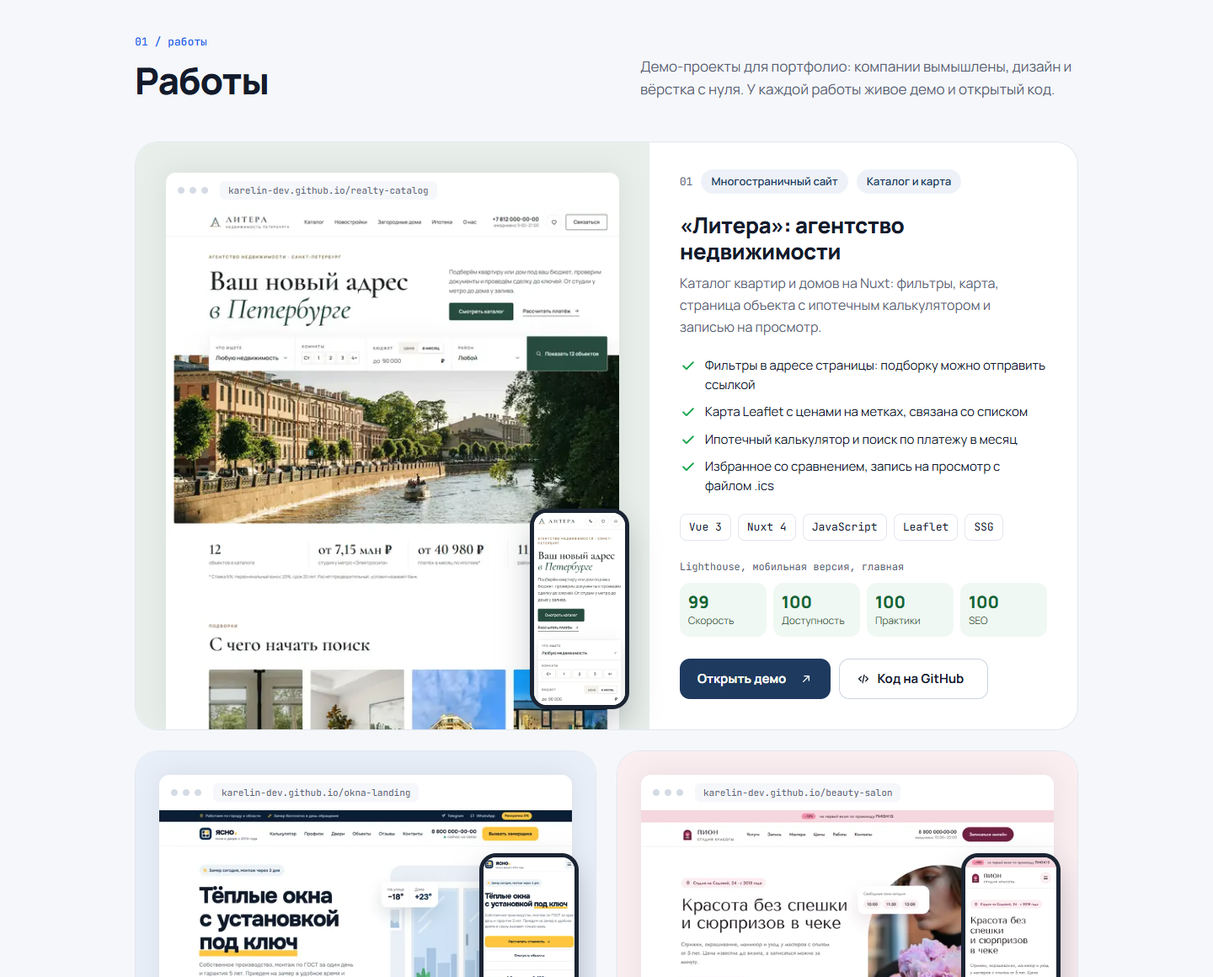
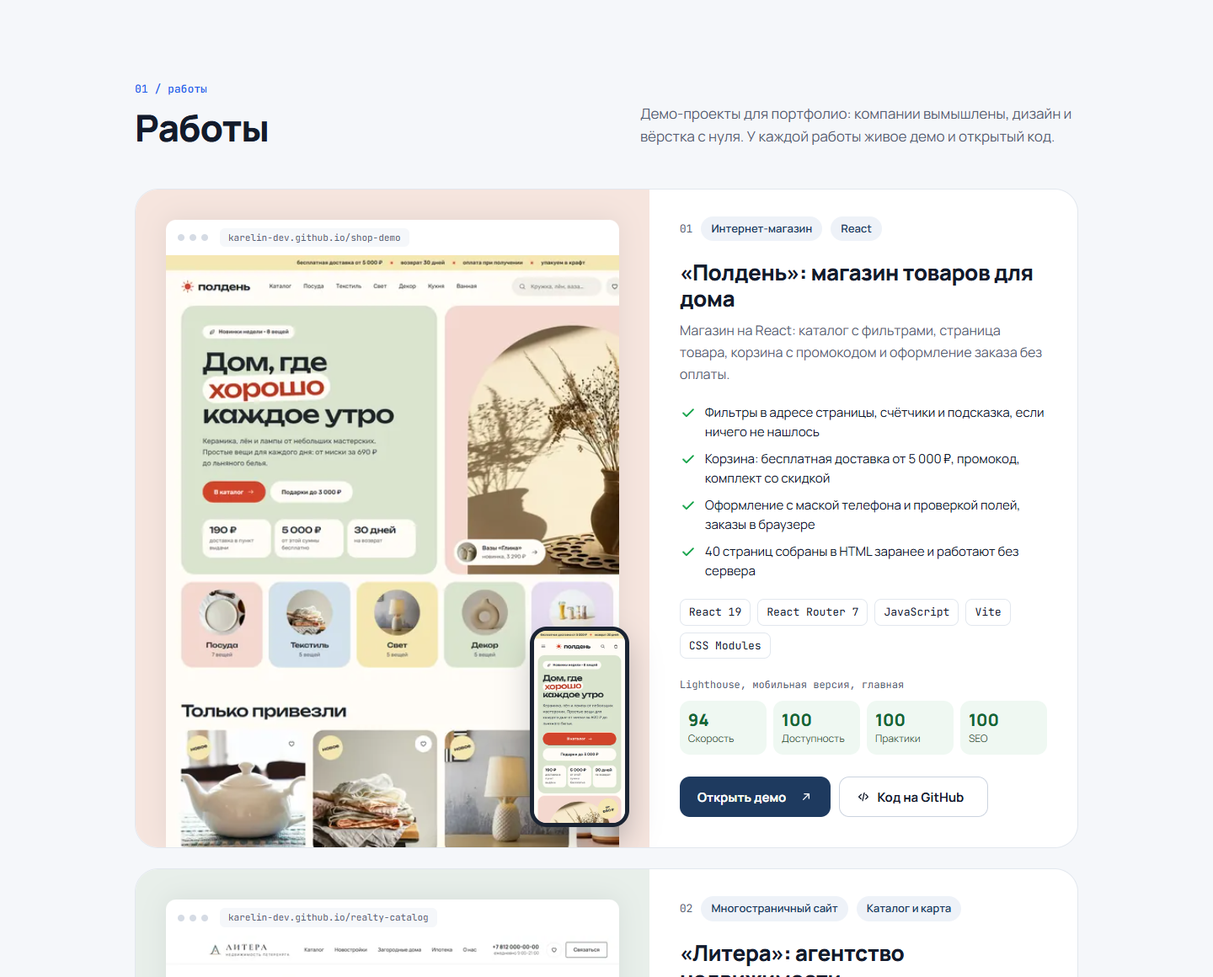
Витрина: магазин «Полдень» первой работой
- карточка на всю ширину: скриншоты главной магазина, что сделано, стек и Lighthouse
- «Литера», «Ясно» и «Пион» стали 02, 03 и 04, блок «в работе» убран
- диапазон Lighthouse и описание для превью ссылки с учётом магазина, свежие скриншоты в README

diff --git a/docs/css/main.css b/docs/css/main.css
@@ -1,1 +1,1 @@
-@font-face{font-family:"Manrope Fallback";font-style:normal;font-weight:400 500;src:local("Arial");size-adjust:102.4%}@font-face{font-family:"Manrope Fallback";font-style:normal;font-weight:600 700;src:local("Arial Bold");size-adjust:98.3%}@font-face{font-family:"Manrope Fallback";font-style:normal;font-weight:800;src:local("Arial Bold");size-adjust:100.7%}@font-face{font-family:"Manrope";font-style:normal;font-weight:200 800;font-display:swap;src:url("../fonts/manrope-cyrillic-wght-normal.woff2") format("woff2");unicode-range:U+0301,U+0400-045F,U+0490-0491,U+04B0-04B1,U+2116}@font-face{font-family:"Manrope";font-style:normal;font-weight:200 800;font-display:swap;src:url("../fonts/manrope-latin-wght-normal.woff2") format("woff2");unicode-range:U+0000-00FF,U+0131,U+0152-0153,U+02BB-02BC,U+02C6,U+02DA,U+02DC,U+0304,U+0308,U+0329,U+2000-206F,U+20AC,U+2122,U+2191,U+2193,U+2212,U+2215,U+FEFF,U+FFFD}@font-face{font-family:"JetBrains Mono";font-style:normal;font-weight:200 800;font-display:swap;src:url("../fonts/jetbrains-mono-cyrillic-wght-normal.woff2") format("woff2");unicode-range:U+0301,U+0400-045F,U+0490-0491,U+04B0-04B1,U+2116}@font-face{font-family:"JetBrains Mono";font-style:normal;font-weight:200 800;font-display:swap;src:url("../fonts/jetbrains-mono-latin-wght-normal.woff2") format("woff2");unicode-range:U+0000-00FF,U+0131,U+0152-0153,U+02BB-02BC,U+02C6,U+02DA,U+02DC,U+0304,U+0308,U+0329,U+2000-206F,U+20AC,U+2122,U+2191,U+2193,U+2212,U+2215,U+FEFF,U+FFFD}*,*::before,*::after{box-sizing:border-box}html{-webkit-text-size-adjust:100%;scroll-behavior:smooth;scroll-padding-top:88px}body{margin:0;font-family:"Manrope","Manrope Fallback",system-ui,-apple-system,"Segoe UI",sans-serif;font-size:16px;line-height:1.5;color:#131b2b;background:#fff;-webkit-font-smoothing:antialiased}img{display:block;max-width:100%;height:auto}h1,h2,h3,p,ul,ol,dl,dd,figure,pre{margin:0}ul,ol{padding:0;list-style:none}a{color:#1e3a5f}a:hover{color:#2563eb}:focus-visible{outline:3px solid #2563eb;outline-offset:3px}.wrap{max-width:1200px;margin-inline:auto;padding-inline:clamp(16px,4vw,40px)}.visually-hidden{position:absolute;width:1px;height:1px;margin:-1px;padding:0;overflow:hidden;clip:rect(0 0 0 0);white-space:nowrap;border:0}.nowrap{white-space:nowrap}.skip-link{position:absolute;top:-100px;left:16px;z-index:100;padding:12px 18px;border-radius:12px;background:#1e3a5f;color:#fff;font-weight:700;text-decoration:none}.skip-link:focus{top:12px;color:#fff}.icon{flex-shrink:0;width:18px;height:18px;fill:none;stroke:currentColor;stroke-width:2;stroke-linecap:round;stroke-linejoin:round}.sprite{position:absolute;width:0;height:0;overflow:hidden}@media(prefers-reduced-motion: reduce){html{scroll-behavior:auto}*,*::before,*::after{transition-duration:.01ms !important;animation-duration:.01ms !important}}.btn{display:inline-flex;align-items:center;justify-content:center;gap:10px;height:54px;padding:0 26px;border:1px solid rgba(0,0,0,0);border-radius:14px;font:inherit;font-size:16px;font-weight:700;line-height:1;text-decoration:none;white-space:nowrap;cursor:pointer;transition:background-color .2s,border-color .2s,color .2s}.btn--primary{background:#1e3a5f;color:#fff}.btn--primary:hover{background:#16304f;color:#fff}.btn--outline{border-color:#cbd3df;background:rgba(0,0,0,0);color:#131b2b}.btn--outline:hover{border-color:#1e3a5f;color:#1e3a5f}.btn--md{gap:8px;height:48px;padding:0 20px;border-radius:12px;font-size:15px}.btn--sm{gap:8px;height:44px;padding:0 18px;border-radius:12px;font-size:15px}.btn--md .icon{width:16px;height:16px}.section{padding-block:96px}.section--ground{background:#f5f7fa}@media(max-width: 599.98px){.section{padding-block:64px}}.section__label{font-family:"JetBrains Mono",ui-monospace,"Cascadia Mono",Consolas,monospace;font-size:13px;font-weight:500;color:#2563eb}.section__title{margin-top:12px;font-size:clamp(32px,3.4vw,44px);font-weight:800;line-height:1.1;letter-spacing:-0.025em}.section__head{display:flex;flex-wrap:wrap;align-items:flex-end;justify-content:space-between;gap:16px 48px}.section__text{max-width:520px;font-size:17px;line-height:1.6;color:#566173}.tag{padding:5px 12px;border-radius:999px;background:#eef2f8;font-size:13px;font-weight:600;color:#1e3a5f}.badge{display:inline-block;padding:4px 10px;border-radius:999px;background:#fff3e2;font-family:"JetBrains Mono",ui-monospace,"Cascadia Mono",Consolas,monospace;font-size:12px;font-weight:500;color:#8a4b00}.dots{display:flex;gap:8px}.dots span{width:10px;height:10px;border-radius:50%;background:#d5dbe4}.dots--sm{gap:6px}.dots--sm span{width:8px;height:8px}.checklist{display:grid;gap:10px;font-size:15px;line-height:1.5}.checklist li{display:flex;gap:10px}.checklist .icon{width:20px;height:20px;margin-top:1px;color:#16a34a;stroke-width:2.4}.code-tags{display:flex;flex-wrap:wrap;gap:8px}.code-tags li{padding:5px 10px;border:1px solid #e2e7ee;border-radius:8px;font-family:"JetBrains Mono",ui-monospace,"Cascadia Mono",Consolas,monospace;font-size:13px}.chips{display:flex;flex-wrap:wrap;gap:8px}.chips li{padding:5px 11px;border-radius:8px;background:#f5f7fa;font-size:14px;font-weight:500}.header{position:sticky;top:0;z-index:50;background:#fff;border-bottom:1px solid #e2e7ee;transition:box-shadow .2s}.header.is-scrolled{box-shadow:0 8px 24px rgba(19,27,43,.06)}.header__inner{display:flex;align-items:center;gap:24px;height:76px}.logo{display:flex;flex-shrink:0;align-items:center;gap:12px;color:#131b2b;text-decoration:none}.logo:hover{color:#131b2b}.logo__mark{position:relative;display:inline-flex;align-items:center;justify-content:center;width:42px;height:42px;border-radius:11px;background:#1e3a5f;color:#fff;font-size:15px;font-weight:800;letter-spacing:.02em}.logo__mark::after{content:"";position:absolute;right:7px;bottom:9px;width:6px;height:2px;border-radius:1px;background:#6ea0ff}.logo__text{display:flex;flex-direction:column;line-height:1.2}.logo__name{font-size:17px;font-weight:700}.logo__role{font-family:"JetBrains Mono",ui-monospace,"Cascadia Mono",Consolas,monospace;font-size:12px;color:#566173}.nav{margin-left:auto}.nav__list{display:flex;gap:28px}.nav__link{position:relative;display:inline-flex;align-items:center;min-height:44px;font-size:15px;font-weight:600;color:#131b2b;text-decoration:none}.nav__link:hover{color:#2563eb}.nav__link[aria-current=true]{color:#1e3a5f}.nav__link[aria-current=true]::after{content:"";position:absolute;right:0;bottom:6px;left:0;height:2px;border-radius:1px;background:#2563eb}.nav__item--mobile{display:none}.header__github{margin-left:8px}.header__burger{display:none}.header__burger .icon{width:22px;height:22px}.header__burger .icon--close,.header__burger[aria-expanded=true] .icon--menu{display:none}.header__burger[aria-expanded=true] .icon--close{display:block}@media(max-width: 859.98px){.header__github{margin-left:auto}.header__burger{display:inline-flex;align-items:center;justify-content:center;width:44px;height:44px;padding:0;border:1px solid #cbd3df;border-radius:12px;background:#fff;color:#131b2b;cursor:pointer}.nav{position:absolute;top:100%;right:0;left:0;display:none;margin:0;padding:4px clamp(16px,4vw,40px) 20px;background:#fff;border-bottom:1px solid #e2e7ee;box-shadow:0 16px 32px rgba(19,27,43,.08)}.header.is-menu-open .nav{display:block}.nav__list{flex-direction:column;gap:0}.nav__link{display:flex;min-height:54px;border-bottom:1px solid #e2e7ee;font-size:17px}.nav__link[aria-current=true]::after{display:none}.nav__item--mobile{display:block}}@media(max-width: 519.98px){.header__github{display:none}.header__burger{margin-left:auto}}.hero__inner{display:flex;flex-wrap:wrap;align-items:center;gap:56px 64px;padding-block:72px 96px}@media(max-width: 599.98px){.hero__inner{gap:48px;padding-block:40px 72px}}.hero__content{flex:1 1 560px;min-width:0}.hero__visual{flex:1 1 440px;min-width:0;max-width:600px}.status{display:inline-flex;align-items:center;gap:10px;padding:8px 16px 8px 14px;border-radius:20px;background:#edf7f0;font-size:14px;font-weight:600;line-height:1.4;color:#14532d}.status__dot{flex-shrink:0;width:8px;height:8px;border-radius:50%;background:#16a34a;box-shadow:0 0 0 4px rgba(22,163,74,.16)}.hero__title{margin-top:28px;font-size:clamp(34px,3.7vw,52px);font-weight:800;line-height:1.08;letter-spacing:-0.03em}.hero__accent{color:#2563eb}.hero__lead{max-width:560px;margin-top:24px;font-size:18px;line-height:1.65;color:#566173}@media(max-width: 599.98px){.hero__lead{font-size:17px}}.hero__actions{display:flex;flex-wrap:wrap;gap:12px;margin-top:36px}.facts{display:grid;grid-template-columns:repeat(auto-fit, minmax(150px, 1fr));gap:20px 24px;margin-top:48px;padding-top:28px;border-top:1px solid #e2e7ee}.facts__item{display:flex;flex-direction:column;gap:4px}.facts__value{font-size:28px;font-weight:800;line-height:1.2;letter-spacing:-0.02em}.facts__label{font-size:14px;color:#566173}.code-stage{position:relative;padding:clamp(10px,3vw,36px);border-radius:32px;background-color:#f5f7fa;background-image:radial-gradient(#cbd3df 1.2px, transparent 1.2px);background-size:20px 20px}.code-card{overflow:hidden;background:#fff;border:1px solid #e2e7ee;border-radius:20px;box-shadow:0 24px 60px rgba(19,27,43,.1)}.code-card__bar{display:flex;align-items:center;gap:18px;padding:14px 18px;border-bottom:1px solid #e2e7ee}.code-card__file{padding:4px 10px;border-radius:8px;background:#f5f7fa;font-family:"JetBrains Mono",ui-monospace,"Cascadia Mono",Consolas,monospace;font-size:13px;color:#566173}.code{padding:22px 24px 26px;overflow-x:auto;font-family:"JetBrains Mono",ui-monospace,"Cascadia Mono",Consolas,monospace;font-size:clamp(12px,1.05vw,14px);line-height:1.8;color:#566173;counter-reset:line}@media(max-width: 599.98px){.code{padding:18px 16px 20px}}.code__line::before{counter-increment:line;content:counter(line);display:inline-block;width:2ch;margin-right:1ch;color:#a3acba}@media(max-width: 599.98px){.code__line::before{display:none}}.code__kw{color:#7a4fd6}.code__var{font-weight:500;color:#131b2b}.code__prop{color:#1e3a5f}.code__str{color:#0e7c66}.code__num{color:#c2410c}.score-badge{position:absolute;right:-12px;bottom:-30px;display:flex;flex-wrap:wrap;align-items:center;gap:12px 16px;padding:14px 18px;background:#fff;border:1px solid #e2e7ee;border-radius:18px;box-shadow:0 18px 40px rgba(19,27,43,.1)}@media(max-width: 599.98px){.score-badge{position:relative;right:auto;bottom:auto;margin-top:16px}}.score-badge__title{display:flex;flex-direction:column;line-height:1.35}.score-badge__label{font-family:"JetBrains Mono",ui-monospace,"Cascadia Mono",Consolas,monospace;font-size:12px;color:#566173}.score-badge__name{font-size:15px;font-weight:700}.score-badge__list{display:flex;gap:8px}.score-ring{display:inline-flex;align-items:center;justify-content:center;width:40px;height:40px;border:3px solid #16a34a;border-radius:50%;font-size:12px;font-weight:800;color:#166534}.works,.upcoming{display:grid;grid-template-columns:repeat(auto-fit, minmax(min(100%, 440px), 1fr));gap:24px}.works{margin-top:48px}.upcoming{margin-top:24px}.work-card{display:flex;flex-direction:column;overflow:hidden;background:#fff;border:1px solid #e2e7ee;border-radius:28px}.work-card__media{position:relative;padding:28px 28px 0}.work-card__media--okna{background:#e9eff8}.work-card__media--pion{background:#fbeef1}.work-card__media--litera{background:#e8efea}@media(max-width: 599.98px){.work-card__media{padding:20px 20px 0}}.browser{overflow:hidden;background:#fff;border-radius:12px 12px 0 0;box-shadow:0 -2px 30px rgba(19,27,43,.08)}.browser__bar{display:flex;align-items:center;gap:14px;padding:10px 14px}.browser__url{min-width:0;padding:3px 10px;overflow:hidden;border-radius:6px;background:#f5f7fa;font-family:"JetBrains Mono",ui-monospace,"Cascadia Mono",Consolas,monospace;font-size:11px;color:#566173;white-space:nowrap;text-overflow:ellipsis}.browser__shot{width:100%;aspect-ratio:16/10;object-fit:cover}.phone{position:absolute;right:20px;bottom:18px;width:clamp(84px,22%,118px);overflow:hidden;background:#fff;border:5px solid #1b2433;border-radius:20px;box-shadow:0 16px 36px rgba(19,27,43,.22)}.phone img{width:100%;aspect-ratio:300/633}@media(max-width: 599.98px){.phone{right:12px;bottom:12px;border-width:4px;border-radius:16px}}@media(min-width: 984px){.work-card--wide{display:grid;grid-column:1/-1;grid-template-columns:minmax(0, 1.2fr) minmax(0, 1fr)}.work-card--wide .work-card__media{display:flex;flex-direction:column;padding:36px 36px 0}.work-card--wide .browser{display:flex;flex:1;flex-direction:column}.work-card--wide .browser__shot{flex:1 1 0;min-height:0;aspect-ratio:auto;object-position:left top}.work-card--wide .phone{right:24px;bottom:24px}}.browser__shot{object-position:top}.work-card__body{display:flex;flex:1;flex-direction:column;gap:22px;padding:32px clamp(20px,3vw,36px) 36px}@media(max-width: 599.98px){.work-card__body{padding-block:26px 28px}}.work-card__tags{display:flex;flex-wrap:wrap;align-items:center;gap:10px}.work-card__num{font-family:"JetBrains Mono",ui-monospace,"Cascadia Mono",Consolas,monospace;font-size:13px;color:#566173}.work-card__title{font-size:26px;font-weight:800;line-height:1.2;letter-spacing:-0.02em}.work-card__text{margin-top:10px;font-size:16px;line-height:1.6;color:#566173}.scores__title{font-family:"JetBrains Mono",ui-monospace,"Cascadia Mono",Consolas,monospace;font-size:12px;color:#566173}.scores__list{display:grid;grid-template-columns:repeat(4, minmax(0, 1fr));gap:8px;margin-top:10px}@media(max-width: 479.98px){.scores__list{grid-template-columns:repeat(2, minmax(0, 1fr))}}.score{padding:10px;border-radius:12px;background:#eff8f2}.score__value{display:block;font-size:20px;font-weight:800;line-height:1.3;color:#166534}.score__label{display:block;font-size:12px;color:#3b5a45}.work-card__actions{display:flex;flex-wrap:wrap;gap:10px;margin-top:auto;padding-top:4px}.upcoming__card{display:flex;flex-wrap:wrap;align-items:center;gap:16px 24px;padding:28px clamp(20px,3vw,36px);border:1.5px dashed #cbd3df;border-radius:24px}.upcoming__body{flex:1 1 240px;min-width:0}.upcoming__title{margin-top:12px;font-size:20px;font-weight:800;letter-spacing:-0.01em}.upcoming__text{margin-top:6px;font-size:15px;line-height:1.55;color:#566173}.upcoming__stack{font-family:"JetBrains Mono",ui-monospace,"Cascadia Mono",Consolas,monospace;font-size:13px;color:#566173}.skills{display:grid;grid-template-columns:repeat(auto-fit, minmax(min(100%, 250px), 1fr));gap:20px;margin-top:40px}.skill-group{padding:28px;border:1px solid #e2e7ee;border-radius:22px}@media(max-width: 599.98px){.skill-group{padding:24px 20px}}.skill-group__icon{display:inline-flex;align-items:center;justify-content:center;width:44px;height:44px;border-radius:12px;background:#eef2f8;color:#1e3a5f}.skill-group__icon .icon{width:22px;height:22px;stroke-width:1.9}.skill-group__title{margin-top:18px;font-size:19px;font-weight:800}.skill-group .chips{margin-top:16px}.skills__note{margin-top:28px;font-size:16px;line-height:1.6;color:#566173}.about{display:flex;flex-wrap:wrap;gap:48px 72px}.about__intro{flex:1 1 420px;min-width:0}.about__text{margin-top:28px}.about__text p{font-size:18px;line-height:1.7;color:#2b3445}.about__text p+p{margin-top:18px}@media(max-width: 599.98px){.about__text p{font-size:17px}}.about__meta{display:grid;gap:12px;margin-top:32px}.meta-row{display:flex;flex-wrap:wrap;gap:4px 16px;padding:14px 18px;background:#fff;border:1px solid #e2e7ee;border-radius:14px}.meta-row dt{flex:0 0 120px;font-family:"JetBrains Mono",ui-monospace,"Cascadia Mono",Consolas,monospace;font-size:13px;line-height:1.7;color:#566173}.meta-row dd{font-size:15px;font-weight:600}.about__offers{flex:1 1 460px;min-width:0}.about__subtitle{font-size:15px;font-weight:700;color:#566173}.offers{display:grid;gap:16px;margin-top:20px}.offer{display:flex;gap:20px;padding:26px;background:#fff;border:1px solid #e2e7ee;border-radius:20px}@media(max-width: 599.98px){.offer{gap:14px;padding:22px 20px}}.offer__num{flex-shrink:0;font-family:"JetBrains Mono",ui-monospace,"Cascadia Mono",Consolas,monospace;font-size:14px;font-weight:500;line-height:1.75;color:#2563eb}.offer__title{font-size:18px;font-weight:800}.offer__text{margin-top:8px;font-size:15px;line-height:1.6;color:#566173}.cta{display:flex;flex-wrap:wrap;align-items:center;justify-content:space-between;gap:32px 48px;padding:clamp(28px,5vw,56px);border-radius:32px;background:#eaf0fb}@media(max-width: 599.98px){.cta{border-radius:24px}}.cta__content{flex:1 1 480px;min-width:0}.cta__title{font-size:clamp(28px,3vw,40px);font-weight:800;line-height:1.15;letter-spacing:-0.025em;text-wrap:balance}.cta__text{max-width:560px;margin-top:16px;font-size:17px;line-height:1.6;color:#3e4859}.footer{border-top:1px solid #e2e7ee}.footer__inner{display:flex;flex-wrap:wrap;align-items:center;justify-content:space-between;gap:12px 32px;padding-block:28px 32px;font-size:14px;line-height:1.5;color:#566173}.footer__link{font-weight:600}
+@font-face{font-family:"Manrope Fallback";font-style:normal;font-weight:400 500;src:local("Arial");size-adjust:102.4%}@font-face{font-family:"Manrope Fallback";font-style:normal;font-weight:600 700;src:local("Arial Bold");size-adjust:98.3%}@font-face{font-family:"Manrope Fallback";font-style:normal;font-weight:800;src:local("Arial Bold");size-adjust:100.7%}@font-face{font-family:"Manrope";font-style:normal;font-weight:200 800;font-display:swap;src:url("../fonts/manrope-cyrillic-wght-normal.woff2") format("woff2");unicode-range:U+0301,U+0400-045F,U+0490-0491,U+04B0-04B1,U+2116}@font-face{font-family:"Manrope";font-style:normal;font-weight:200 800;font-display:swap;src:url("../fonts/manrope-latin-wght-normal.woff2") format("woff2");unicode-range:U+0000-00FF,U+0131,U+0152-0153,U+02BB-02BC,U+02C6,U+02DA,U+02DC,U+0304,U+0308,U+0329,U+2000-206F,U+20AC,U+2122,U+2191,U+2193,U+2212,U+2215,U+FEFF,U+FFFD}@font-face{font-family:"JetBrains Mono";font-style:normal;font-weight:200 800;font-display:swap;src:url("../fonts/jetbrains-mono-cyrillic-wght-normal.woff2") format("woff2");unicode-range:U+0301,U+0400-045F,U+0490-0491,U+04B0-04B1,U+2116}@font-face{font-family:"JetBrains Mono";font-style:normal;font-weight:200 800;font-display:swap;src:url("../fonts/jetbrains-mono-latin-wght-normal.woff2") format("woff2");unicode-range:U+0000-00FF,U+0131,U+0152-0153,U+02BB-02BC,U+02C6,U+02DA,U+02DC,U+0304,U+0308,U+0329,U+2000-206F,U+20AC,U+2122,U+2191,U+2193,U+2212,U+2215,U+FEFF,U+FFFD}*,*::before,*::after{box-sizing:border-box}html{-webkit-text-size-adjust:100%;scroll-behavior:smooth;scroll-padding-top:88px}body{margin:0;font-family:"Manrope","Manrope Fallback",system-ui,-apple-system,"Segoe UI",sans-serif;font-size:16px;line-height:1.5;color:#131b2b;background:#fff;-webkit-font-smoothing:antialiased}img{display:block;max-width:100%;height:auto}h1,h2,h3,p,ul,ol,dl,dd,figure,pre{margin:0}ul,ol{padding:0;list-style:none}a{color:#1e3a5f}a:hover{color:#2563eb}:focus-visible{outline:3px solid #2563eb;outline-offset:3px}.wrap{max-width:1200px;margin-inline:auto;padding-inline:clamp(16px,4vw,40px)}.visually-hidden{position:absolute;width:1px;height:1px;margin:-1px;padding:0;overflow:hidden;clip:rect(0 0 0 0);white-space:nowrap;border:0}.nowrap{white-space:nowrap}.skip-link{position:absolute;top:-100px;left:16px;z-index:100;padding:12px 18px;border-radius:12px;background:#1e3a5f;color:#fff;font-weight:700;text-decoration:none}.skip-link:focus{top:12px;color:#fff}.icon{flex-shrink:0;width:18px;height:18px;fill:none;stroke:currentColor;stroke-width:2;stroke-linecap:round;stroke-linejoin:round}.sprite{position:absolute;width:0;height:0;overflow:hidden}@media(prefers-reduced-motion: reduce){html{scroll-behavior:auto}*,*::before,*::after{transition-duration:.01ms !important;animation-duration:.01ms !important}}.btn{display:inline-flex;align-items:center;justify-content:center;gap:10px;height:54px;padding:0 26px;border:1px solid rgba(0,0,0,0);border-radius:14px;font:inherit;font-size:16px;font-weight:700;line-height:1;text-decoration:none;white-space:nowrap;cursor:pointer;transition:background-color .2s,border-color .2s,color .2s}.btn--primary{background:#1e3a5f;color:#fff}.btn--primary:hover{background:#16304f;color:#fff}.btn--outline{border-color:#cbd3df;background:rgba(0,0,0,0);color:#131b2b}.btn--outline:hover{border-color:#1e3a5f;color:#1e3a5f}.btn--md{gap:8px;height:48px;padding:0 20px;border-radius:12px;font-size:15px}.btn--sm{gap:8px;height:44px;padding:0 18px;border-radius:12px;font-size:15px}.btn--md .icon{width:16px;height:16px}.section{padding-block:96px}.section--ground{background:#f5f7fa}@media(max-width: 599.98px){.section{padding-block:64px}}.section__label{font-family:"JetBrains Mono",ui-monospace,"Cascadia Mono",Consolas,monospace;font-size:13px;font-weight:500;color:#2563eb}.section__title{margin-top:12px;font-size:clamp(32px,3.4vw,44px);font-weight:800;line-height:1.1;letter-spacing:-0.025em}.section__head{display:flex;flex-wrap:wrap;align-items:flex-end;justify-content:space-between;gap:16px 48px}.section__text{max-width:520px;font-size:17px;line-height:1.6;color:#566173}.tag{padding:5px 12px;border-radius:999px;background:#eef2f8;font-size:13px;font-weight:600;color:#1e3a5f}.badge{display:inline-block;padding:4px 10px;border-radius:999px;background:#fff3e2;font-family:"JetBrains Mono",ui-monospace,"Cascadia Mono",Consolas,monospace;font-size:12px;font-weight:500;color:#8a4b00}.dots{display:flex;gap:8px}.dots span{width:10px;height:10px;border-radius:50%;background:#d5dbe4}.dots--sm{gap:6px}.dots--sm span{width:8px;height:8px}.checklist{display:grid;gap:10px;font-size:15px;line-height:1.5}.checklist li{display:flex;gap:10px}.checklist .icon{width:20px;height:20px;margin-top:1px;color:#16a34a;stroke-width:2.4}.code-tags{display:flex;flex-wrap:wrap;gap:8px}.code-tags li{padding:5px 10px;border:1px solid #e2e7ee;border-radius:8px;font-family:"JetBrains Mono",ui-monospace,"Cascadia Mono",Consolas,monospace;font-size:13px}.chips{display:flex;flex-wrap:wrap;gap:8px}.chips li{padding:5px 11px;border-radius:8px;background:#f5f7fa;font-size:14px;font-weight:500}.header{position:sticky;top:0;z-index:50;background:#fff;border-bottom:1px solid #e2e7ee;transition:box-shadow .2s}.header.is-scrolled{box-shadow:0 8px 24px rgba(19,27,43,.06)}.header__inner{display:flex;align-items:center;gap:24px;height:76px}.logo{display:flex;flex-shrink:0;align-items:center;gap:12px;color:#131b2b;text-decoration:none}.logo:hover{color:#131b2b}.logo__mark{position:relative;display:inline-flex;align-items:center;justify-content:center;width:42px;height:42px;border-radius:11px;background:#1e3a5f;color:#fff;font-size:15px;font-weight:800;letter-spacing:.02em}.logo__mark::after{content:"";position:absolute;right:7px;bottom:9px;width:6px;height:2px;border-radius:1px;background:#6ea0ff}.logo__text{display:flex;flex-direction:column;line-height:1.2}.logo__name{font-size:17px;font-weight:700}.logo__role{font-family:"JetBrains Mono",ui-monospace,"Cascadia Mono",Consolas,monospace;font-size:12px;color:#566173}.nav{margin-left:auto}.nav__list{display:flex;gap:28px}.nav__link{position:relative;display:inline-flex;align-items:center;min-height:44px;font-size:15px;font-weight:600;color:#131b2b;text-decoration:none}.nav__link:hover{color:#2563eb}.nav__link[aria-current=true]{color:#1e3a5f}.nav__link[aria-current=true]::after{content:"";position:absolute;right:0;bottom:6px;left:0;height:2px;border-radius:1px;background:#2563eb}.nav__item--mobile{display:none}.header__github{margin-left:8px}.header__burger{display:none}.header__burger .icon{width:22px;height:22px}.header__burger .icon--close,.header__burger[aria-expanded=true] .icon--menu{display:none}.header__burger[aria-expanded=true] .icon--close{display:block}@media(max-width: 859.98px){.header__github{margin-left:auto}.header__burger{display:inline-flex;align-items:center;justify-content:center;width:44px;height:44px;padding:0;border:1px solid #cbd3df;border-radius:12px;background:#fff;color:#131b2b;cursor:pointer}.nav{position:absolute;top:100%;right:0;left:0;display:none;margin:0;padding:4px clamp(16px,4vw,40px) 20px;background:#fff;border-bottom:1px solid #e2e7ee;box-shadow:0 16px 32px rgba(19,27,43,.08)}.header.is-menu-open .nav{display:block}.nav__list{flex-direction:column;gap:0}.nav__link{display:flex;min-height:54px;border-bottom:1px solid #e2e7ee;font-size:17px}.nav__link[aria-current=true]::after{display:none}.nav__item--mobile{display:block}}@media(max-width: 519.98px){.header__github{display:none}.header__burger{margin-left:auto}}.hero__inner{display:flex;flex-wrap:wrap;align-items:center;gap:56px 64px;padding-block:72px 96px}@media(max-width: 599.98px){.hero__inner{gap:48px;padding-block:40px 72px}}.hero__content{flex:1 1 560px;min-width:0}.hero__visual{flex:1 1 440px;min-width:0;max-width:600px}.status{display:inline-flex;align-items:center;gap:10px;padding:8px 16px 8px 14px;border-radius:20px;background:#edf7f0;font-size:14px;font-weight:600;line-height:1.4;color:#14532d}.status__dot{flex-shrink:0;width:8px;height:8px;border-radius:50%;background:#16a34a;box-shadow:0 0 0 4px rgba(22,163,74,.16)}.hero__title{margin-top:28px;font-size:clamp(34px,3.7vw,52px);font-weight:800;line-height:1.08;letter-spacing:-0.03em}.hero__accent{color:#2563eb}.hero__lead{max-width:560px;margin-top:24px;font-size:18px;line-height:1.65;color:#566173}@media(max-width: 599.98px){.hero__lead{font-size:17px}}.hero__actions{display:flex;flex-wrap:wrap;gap:12px;margin-top:36px}.facts{display:grid;grid-template-columns:repeat(auto-fit, minmax(150px, 1fr));gap:20px 24px;margin-top:48px;padding-top:28px;border-top:1px solid #e2e7ee}.facts__item{display:flex;flex-direction:column;gap:4px}.facts__value{font-size:28px;font-weight:800;line-height:1.2;letter-spacing:-0.02em}.facts__label{font-size:14px;color:#566173}.code-stage{position:relative;padding:clamp(10px,3vw,36px);border-radius:32px;background-color:#f5f7fa;background-image:radial-gradient(#cbd3df 1.2px, transparent 1.2px);background-size:20px 20px}.code-card{overflow:hidden;background:#fff;border:1px solid #e2e7ee;border-radius:20px;box-shadow:0 24px 60px rgba(19,27,43,.1)}.code-card__bar{display:flex;align-items:center;gap:18px;padding:14px 18px;border-bottom:1px solid #e2e7ee}.code-card__file{padding:4px 10px;border-radius:8px;background:#f5f7fa;font-family:"JetBrains Mono",ui-monospace,"Cascadia Mono",Consolas,monospace;font-size:13px;color:#566173}.code{padding:22px 24px 26px;overflow-x:auto;font-family:"JetBrains Mono",ui-monospace,"Cascadia Mono",Consolas,monospace;font-size:clamp(12px,1.05vw,14px);line-height:1.8;color:#566173;counter-reset:line}@media(max-width: 599.98px){.code{padding:18px 16px 20px}}.code__line::before{counter-increment:line;content:counter(line);display:inline-block;width:2ch;margin-right:1ch;color:#a3acba}@media(max-width: 599.98px){.code__line::before{display:none}}.code__kw{color:#7a4fd6}.code__var{font-weight:500;color:#131b2b}.code__prop{color:#1e3a5f}.code__str{color:#0e7c66}.code__num{color:#c2410c}.score-badge{position:absolute;right:-12px;bottom:-30px;display:flex;flex-wrap:wrap;align-items:center;gap:12px 16px;padding:14px 18px;background:#fff;border:1px solid #e2e7ee;border-radius:18px;box-shadow:0 18px 40px rgba(19,27,43,.1)}@media(max-width: 599.98px){.score-badge{position:relative;right:auto;bottom:auto;margin-top:16px}}.score-badge__title{display:flex;flex-direction:column;line-height:1.35}.score-badge__label{font-family:"JetBrains Mono",ui-monospace,"Cascadia Mono",Consolas,monospace;font-size:12px;color:#566173}.score-badge__name{font-size:15px;font-weight:700}.score-badge__list{display:flex;gap:8px}.score-ring{display:inline-flex;align-items:center;justify-content:center;width:40px;height:40px;border:3px solid #16a34a;border-radius:50%;font-size:12px;font-weight:800;color:#166534}.works{display:grid;grid-template-columns:repeat(auto-fit, minmax(min(100%, 440px), 1fr));gap:24px;margin-top:48px}.work-card{display:flex;flex-direction:column;overflow:hidden;background:#fff;border:1px solid #e2e7ee;border-radius:28px}.work-card__media{position:relative;padding:28px 28px 0}.work-card__media--okna{background:#e9eff8}.work-card__media--pion{background:#fbeef1}.work-card__media--litera{background:#e8efea}.work-card__media--polden{background:#f6e5de}@media(max-width: 599.98px){.work-card__media{padding:20px 20px 0}}.browser{overflow:hidden;background:#fff;border-radius:12px 12px 0 0;box-shadow:0 -2px 30px rgba(19,27,43,.08)}.browser__bar{display:flex;align-items:center;gap:14px;padding:10px 14px}.browser__url{min-width:0;padding:3px 10px;overflow:hidden;border-radius:6px;background:#f5f7fa;font-family:"JetBrains Mono",ui-monospace,"Cascadia Mono",Consolas,monospace;font-size:11px;color:#566173;white-space:nowrap;text-overflow:ellipsis}.browser__shot{width:100%;aspect-ratio:16/10;object-fit:cover}.phone{position:absolute;right:20px;bottom:18px;width:clamp(84px,22%,118px);overflow:hidden;background:#fff;border:5px solid #1b2433;border-radius:20px;box-shadow:0 16px 36px rgba(19,27,43,.22)}.phone img{width:100%;aspect-ratio:300/633}@media(max-width: 599.98px){.phone{right:12px;bottom:12px;border-width:4px;border-radius:16px}}@media(min-width: 984px){.work-card--wide{display:grid;grid-column:1/-1;grid-template-columns:minmax(0, 1.2fr) minmax(0, 1fr)}.work-card--wide .work-card__media{display:flex;flex-direction:column;padding:36px 36px 0}.work-card--wide .browser{display:flex;flex:1;flex-direction:column}.work-card--wide .browser__shot{flex:1 1 0;min-height:0;aspect-ratio:auto;object-position:left top}.work-card--wide .phone{right:24px;bottom:24px}}.browser__shot{object-position:top}.work-card__body{display:flex;flex:1;flex-direction:column;gap:22px;padding:32px clamp(20px,3vw,36px) 36px}@media(max-width: 599.98px){.work-card__body{padding-block:26px 28px}}.work-card__tags{display:flex;flex-wrap:wrap;align-items:center;gap:10px}.work-card__num{font-family:"JetBrains Mono",ui-monospace,"Cascadia Mono",Consolas,monospace;font-size:13px;color:#566173}.work-card__title{font-size:26px;font-weight:800;line-height:1.2;letter-spacing:-0.02em}.work-card__text{margin-top:10px;font-size:16px;line-height:1.6;color:#566173}.scores__title{font-family:"JetBrains Mono",ui-monospace,"Cascadia Mono",Consolas,monospace;font-size:12px;color:#566173}.scores__list{display:grid;grid-template-columns:repeat(4, minmax(0, 1fr));gap:8px;margin-top:10px}@media(max-width: 479.98px){.scores__list{grid-template-columns:repeat(2, minmax(0, 1fr))}}.score{padding:10px;border-radius:12px;background:#eff8f2}.score__value{display:block;font-size:20px;font-weight:800;line-height:1.3;color:#166534}.score__label{display:block;font-size:12px;color:#3b5a45}.work-card__actions{display:flex;flex-wrap:wrap;gap:10px;margin-top:auto;padding-top:4px}.skills{display:grid;grid-template-columns:repeat(auto-fit, minmax(min(100%, 250px), 1fr));gap:20px;margin-top:40px}.skill-group{padding:28px;border:1px solid #e2e7ee;border-radius:22px}@media(max-width: 599.98px){.skill-group{padding:24px 20px}}.skill-group__icon{display:inline-flex;align-items:center;justify-content:center;width:44px;height:44px;border-radius:12px;background:#eef2f8;color:#1e3a5f}.skill-group__icon .icon{width:22px;height:22px;stroke-width:1.9}.skill-group__title{margin-top:18px;font-size:19px;font-weight:800}.skill-group .chips{margin-top:16px}.skills__note{margin-top:28px;font-size:16px;line-height:1.6;color:#566173}.about{display:flex;flex-wrap:wrap;gap:48px 72px}.about__intro{flex:1 1 420px;min-width:0}.about__text{margin-top:28px}.about__text p{font-size:18px;line-height:1.7;color:#2b3445}.about__text p+p{margin-top:18px}@media(max-width: 599.98px){.about__text p{font-size:17px}}.about__meta{display:grid;gap:12px;margin-top:32px}.meta-row{display:flex;flex-wrap:wrap;gap:4px 16px;padding:14px 18px;background:#fff;border:1px solid #e2e7ee;border-radius:14px}.meta-row dt{flex:0 0 120px;font-family:"JetBrains Mono",ui-monospace,"Cascadia Mono",Consolas,monospace;font-size:13px;line-height:1.7;color:#566173}.meta-row dd{font-size:15px;font-weight:600}.about__offers{flex:1 1 460px;min-width:0}.about__subtitle{font-size:15px;font-weight:700;color:#566173}.offers{display:grid;gap:16px;margin-top:20px}.offer{display:flex;gap:20px;padding:26px;background:#fff;border:1px solid #e2e7ee;border-radius:20px}@media(max-width: 599.98px){.offer{gap:14px;padding:22px 20px}}.offer__num{flex-shrink:0;font-family:"JetBrains Mono",ui-monospace,"Cascadia Mono",Consolas,monospace;font-size:14px;font-weight:500;line-height:1.75;color:#2563eb}.offer__title{font-size:18px;font-weight:800}.offer__text{margin-top:8px;font-size:15px;line-height:1.6;color:#566173}.cta{display:flex;flex-wrap:wrap;align-items:center;justify-content:space-between;gap:32px 48px;padding:clamp(28px,5vw,56px);border-radius:32px;background:#eaf0fb}@media(max-width: 599.98px){.cta{border-radius:24px}}.cta__content{flex:1 1 480px;min-width:0}.cta__title{font-size:clamp(28px,3vw,40px);font-weight:800;line-height:1.15;letter-spacing:-0.025em;text-wrap:balance}.cta__text{max-width:560px;margin-top:16px;font-size:17px;line-height:1.6;color:#3e4859}.footer{border-top:1px solid #e2e7ee}.footer__inner{display:flex;flex-wrap:wrap;align-items:center;justify-content:space-between;gap:12px 32px;padding-block:28px 32px;font-size:14px;line-height:1.5;color:#566173}.footer__link{font-weight:600}

diff --git a/docs/index.html b/docs/index.html
@@ -11,7 +11,7 @@
 <meta property="og:locale" content="ru_RU">
 <meta property="og:url" content="https://karelin-dev.github.io/">
 <meta property="og:title" content="Иван Карелин: frontend-разработчик">
-<meta property="og:description" content="Портфолио: каталог недвижимости на Nuxt, лендинги с калькулятором, квизом и онлайн-записью. Живые демо и открытый код.">
+<meta property="og:description" content="Портфолио: интернет-магазин на React, каталог недвижимости на Nuxt, лендинги с калькулятором, квизом и онлайн-записью. Живые демо и открытый код.">
 <meta property="og:image" content="https://karelin-dev.github.io/img/og.jpg">
 <meta name="twitter:card" content="summary_large_image">
 <link rel="icon" href="favicon.svg" type="image/svg+xml">
@@ -94,7 +94,7 @@
         </div>
         <ul class="facts">
           <li class="facts__item"><span class="facts__value">2022</span><span class="facts__label">верстаю с июля 2022 года</span></li>
-          <li class="facts__item"><span class="facts__value">95–99</span><span class="facts__label">Lighthouse mobile у работ ниже</span></li>
+          <li class="facts__item"><span class="facts__value">94–99</span><span class="facts__label">Lighthouse mobile у работ ниже</span></li>
           <li class="facts__item"><span class="facts__value">320 px</span><span class="facts__label">адаптив от самых узких экранов</span></li>
         </ul>
       </div>
@@ -145,6 +145,64 @@
       </div>
 
       <div class="works">
+        <article class="work-card work-card--wide" aria-labelledby="work-polden">
+          <div class="work-card__media work-card__media--polden">
+            <div class="browser">
+              <div class="browser__bar">
+                <span class="dots dots--sm" aria-hidden="true"><span></span><span></span><span></span></span>
+                <span class="browser__url">karelin-dev.github.io/shop-demo</span>
+              </div>
+              <img class="browser__shot" src="img/polden-desktop-1040.webp" srcset="img/polden-desktop-600.webp 600w, img/polden-desktop-1040.webp 1040w" sizes="(min-width: 1200px) 540px, (min-width: 984px) calc(54vw - 110px), calc(100vw - 90px)" width="1040" height="1120" alt="Главная магазина «Полдень»: заголовок «Дом, где хорошо каждое утро», фото сухоцветов в арке и категории" loading="lazy" decoding="async">
+            </div>
+            <div class="phone">
+              <img src="img/polden-mobile-300.webp" width="300" height="633" alt="Мобильная версия магазина «Полдень»" loading="lazy" decoding="async">
+            </div>
+          </div>
+          <div class="work-card__body">
+            <div class="work-card__tags">
+              <span class="work-card__num">01</span>
+              <span class="tag">Интернет-магазин</span>
+              <span class="tag">React</span>
+            </div>
+            <div>
+              <h3 class="work-card__title" id="work-polden">«Полдень»: магазин товаров для дома</h3>
+              <p class="work-card__text">Магазин на React: каталог с фильтрами, страница товара, корзина с промокодом и оформление заказа без оплаты.</p>
+            </div>
+            <ul class="checklist">
+              <li><svg class="icon" aria-hidden="true"><use href="#i-check"/></svg>Фильтры в адресе страницы, счётчики и подсказка, если ничего не нашлось</li>
+              <li><svg class="icon" aria-hidden="true"><use href="#i-check"/></svg>Корзина: бесплатная доставка от 5&nbsp;000&nbsp;₽, промокод, комплект со скидкой</li>
+              <li><svg class="icon" aria-hidden="true"><use href="#i-check"/></svg>Оформление с маской телефона и проверкой полей, заказы в браузере</li>
+              <li><svg class="icon" aria-hidden="true"><use href="#i-check"/></svg>40 страниц собраны в HTML заранее и работают без сервера</li>
+            </ul>
+            <ul class="code-tags" aria-label="Стек">
+              <li>React 19</li>
+              <li>React Router 7</li>
+              <li>JavaScript</li>
+              <li>Vite</li>
+              <li>CSS Modules</li>
+            </ul>
+            <div class="scores">
+              <p class="scores__title">Lighthouse, мобильная версия, главная</p>
+              <ul class="scores__list">
+                <li class="score"><span class="score__value">94</span><span class="score__label">Скорость</span></li>
+                <li class="score"><span class="score__value">100</span><span class="score__label">Доступность</span></li>
+                <li class="score"><span class="score__value">100</span><span class="score__label">Практики</span></li>
+                <li class="score"><span class="score__value">100</span><span class="score__label">SEO</span></li>
+              </ul>
+            </div>
+            <div class="work-card__actions">
+              <a class="btn btn--primary btn--md" href="https://karelin-dev.github.io/shop-demo/">
+                Открыть демо<span class="visually-hidden"> «Полдень»</span>
+                <svg class="icon" aria-hidden="true"><use href="#i-external"/></svg>
+              </a>
+              <a class="btn btn--outline btn--md" href="https://github.com/karelin-dev/shop-demo">
+                <svg class="icon" aria-hidden="true"><use href="#i-code"/></svg>
+                Код на GitHub<span class="visually-hidden">: «Полдень»</span>
+              </a>
+            </div>
+          </div>
+        </article>
+
         <article class="work-card work-card--wide" aria-labelledby="work-litera">
           <div class="work-card__media work-card__media--litera">
             <div class="browser">
@@ -160,7 +218,7 @@
           </div>
           <div class="work-card__body">
             <div class="work-card__tags">
-              <span class="work-card__num">01</span>
+              <span class="work-card__num">02</span>
               <span class="tag">Многостраничный сайт</span>
               <span class="tag">Каталог и карта</span>
             </div>
@@ -218,7 +276,7 @@
           </div>
           <div class="work-card__body">
             <div class="work-card__tags">
-              <span class="work-card__num">02</span>
+              <span class="work-card__num">03</span>
               <span class="tag">Лендинг</span>
               <span class="tag">Калькулятор и квиз</span>
             </div>
@@ -276,7 +334,7 @@
           </div>
           <div class="work-card__body">
             <div class="work-card__tags">
-              <span class="work-card__num">03</span>
+              <span class="work-card__num">04</span>
               <span class="tag">Лендинг</span>
               <span class="tag">Онлайн-запись</span>
             </div>
@@ -319,16 +377,6 @@
         </article>
       </div>
 
-      <ul class="upcoming" aria-label="Работы в процессе">
-        <li class="upcoming__card">
-          <div class="upcoming__body">
-            <span class="badge">в работе</span>
-            <h3 class="upcoming__title">Интернет-магазин</h3>
-            <p class="upcoming__text">Каталог, корзина и оформление заказа, простая админка.</p>
-          </div>
-          <span class="upcoming__stack">React · FastAPI</span>
-        </li>
-      </ul>
     </div>
   </section>
 

diff --git a/src/scss/blocks/_works.scss b/src/scss/blocks/_works.scss
@@ -1,18 +1,10 @@
 @use '../tokens' as *;
 
-.works,
-.upcoming {
+.works {
   display: grid;
   grid-template-columns: repeat(auto-fit, minmax(min(100%, 440px), 1fr));
   gap: 24px;
-}
-
-.works {
   margin-top: 48px;
-}
-
-.upcoming {
-  margin-top: 24px;
 }
 
 .work-card {
@@ -39,6 +31,10 @@
 
   &--litera {
     background: #e8efea;
+  }
+
+  &--polden {
+    background: #f6e5de;
   }
 
   @include down($bp-sm) {
@@ -223,40 +219,4 @@
   gap: 10px;
   margin-top: auto;
   padding-top: 4px;
-}
-
-// Работы, которые ещё делаются
-.upcoming__card {
-  display: flex;
-  flex-wrap: wrap;
-  align-items: center;
-  gap: 16px 24px;
-  padding: 28px clamp(20px, 3vw, 36px);
-  border: 1.5px dashed $line-strong;
-  border-radius: 24px;
-}
-
-.upcoming__body {
-  flex: 1 1 240px;
-  min-width: 0;
-}
-
-.upcoming__title {
-  margin-top: 12px;
-  font-size: 20px;
-  font-weight: 800;
-  letter-spacing: -0.01em;
-}
-
-.upcoming__text {
-  margin-top: 6px;
-  font-size: 15px;
-  line-height: 1.55;
-  color: $muted;
-}
-
-.upcoming__stack {
-  font-family: $mono;
-  font-size: 13px;
-  color: $muted;
 }

diff --git a/README.md b/README.md
@@ -15,9 +15,8 @@
 - **Дизайн с нуля.** Монограмма «ИК», палитра, подбор шрифтов (Manrope и JetBrains Mono),
   макет десктопа. Вёрстка повторяет макет.
 - **Карточки работ.** Скриншот десктопа в рамке браузера и мобильная версия поверх,
-  что сделано, стек, оценки Lighthouse, ссылки на демо и репозиторий. Главная работа
-  (каталог на Nuxt) занимает всю ширину: скриншот слева тянется на высоту описания.
-  Ниже работы, которые сейчас в процессе.
+  что сделано, стек, оценки Lighthouse, ссылки на демо и репозиторий. Главные работы
+  (магазин на React и каталог на Nuxt) занимают всю ширину: скриншот слева тянется на высоту описания.
 - **Шрифты со своего домена.** WOFF2 отдельно для кириллицы и латиницы, `preload`
   основного файла, без запросов к Google Fonts. Пока шрифт грузится, текст набран Arial
   с `size-adjust`, подобранным под ширину Manrope: строки переносятся так же, и вёрстка
